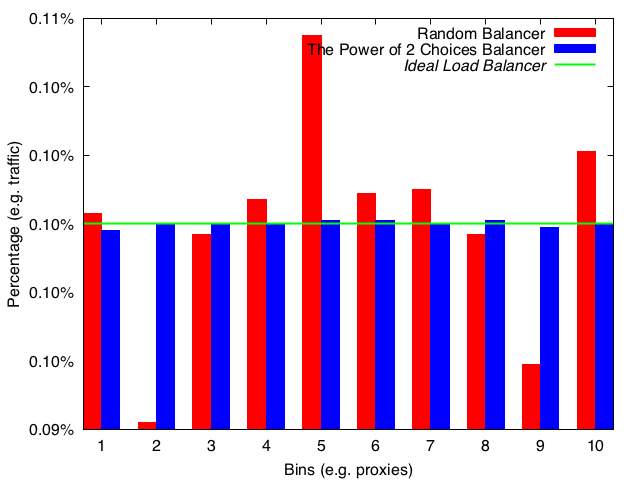
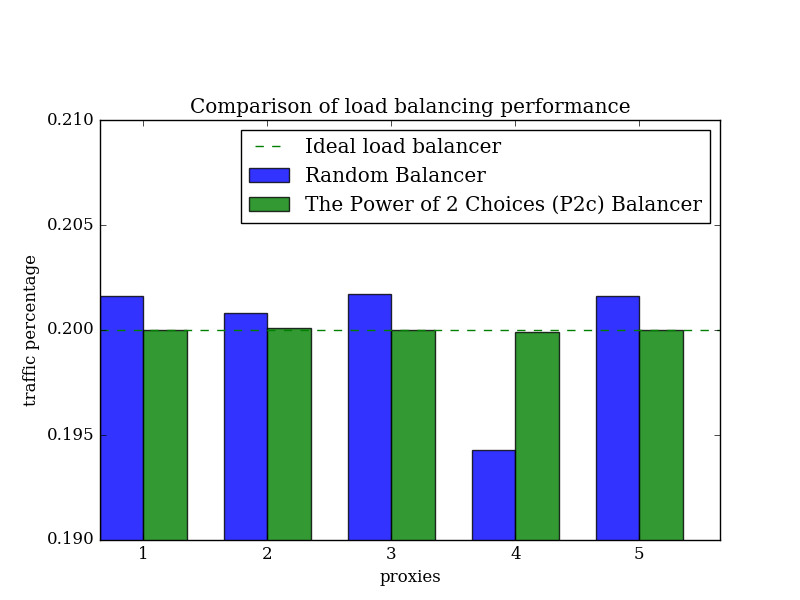
switch to matplotlib

diff --git a/docs/plot_errors.py b/docs/plot_errors.py
@@ -1,0 +1,36 @@
+#!/usr/bin/env python
+
+# brew cask install mactex
+# pip install matplotlib numpy
+import numpy as np
+import matplotlib.pyplot as plt
+
+bar_width = 0.35
+random_balancer = (0.2016, 0.2008, 0.2017, 0.1943, 0.2016)
+p2c_balancer = (0.2, 0.2001, 0.2, 0.1999, 0.2)
+
+# plt.rc('text', usetex=True)
+plt.rc('font', family='serif')
+plt.subplots()
+
+bins = np.arange(5)
+
+plt.bar(bins, random_balancer, bar_width, alpha=0.8,
+    color='b', label='Random Balancer')
+ 
+plt.bar(bins + bar_width, p2c_balancer, bar_width, alpha=0.8,
+    color='g', label='The Power of 2 Choices (P2c) Balancer')
+
+plt.axhline(y=0.2, linestyle='dashed',
+    color='g', label='Ideal load balancer')
+
+plt.title('Comparison of load balancing performance')
+
+plt.ylim([0.19, 0.21])
+plt.ylabel(r'traffic percentage')
+
+plt.xticks(bins + bar_width, ('1', '2', '3', '4', '5'))
+plt.xlabel(r'proxies')
+
+plt.legend()
+plt.savefig('errors.png')

diff --git a/README.md b/README.md
@@ -27,6 +27,8 @@ const proxies = [
     'http://proxy1.arrowfunction.com/',
     'http://proxy2.arrowfunction.com/',
     'http://proxy3.arrowfunction.com/',
+    'http://proxy4.arrowfunction.com/',
+    'http://proxy5.arrowfunction.com/',
 ];
 
 // Initializes the power of two choices (P2c) balancer with three proxies.
